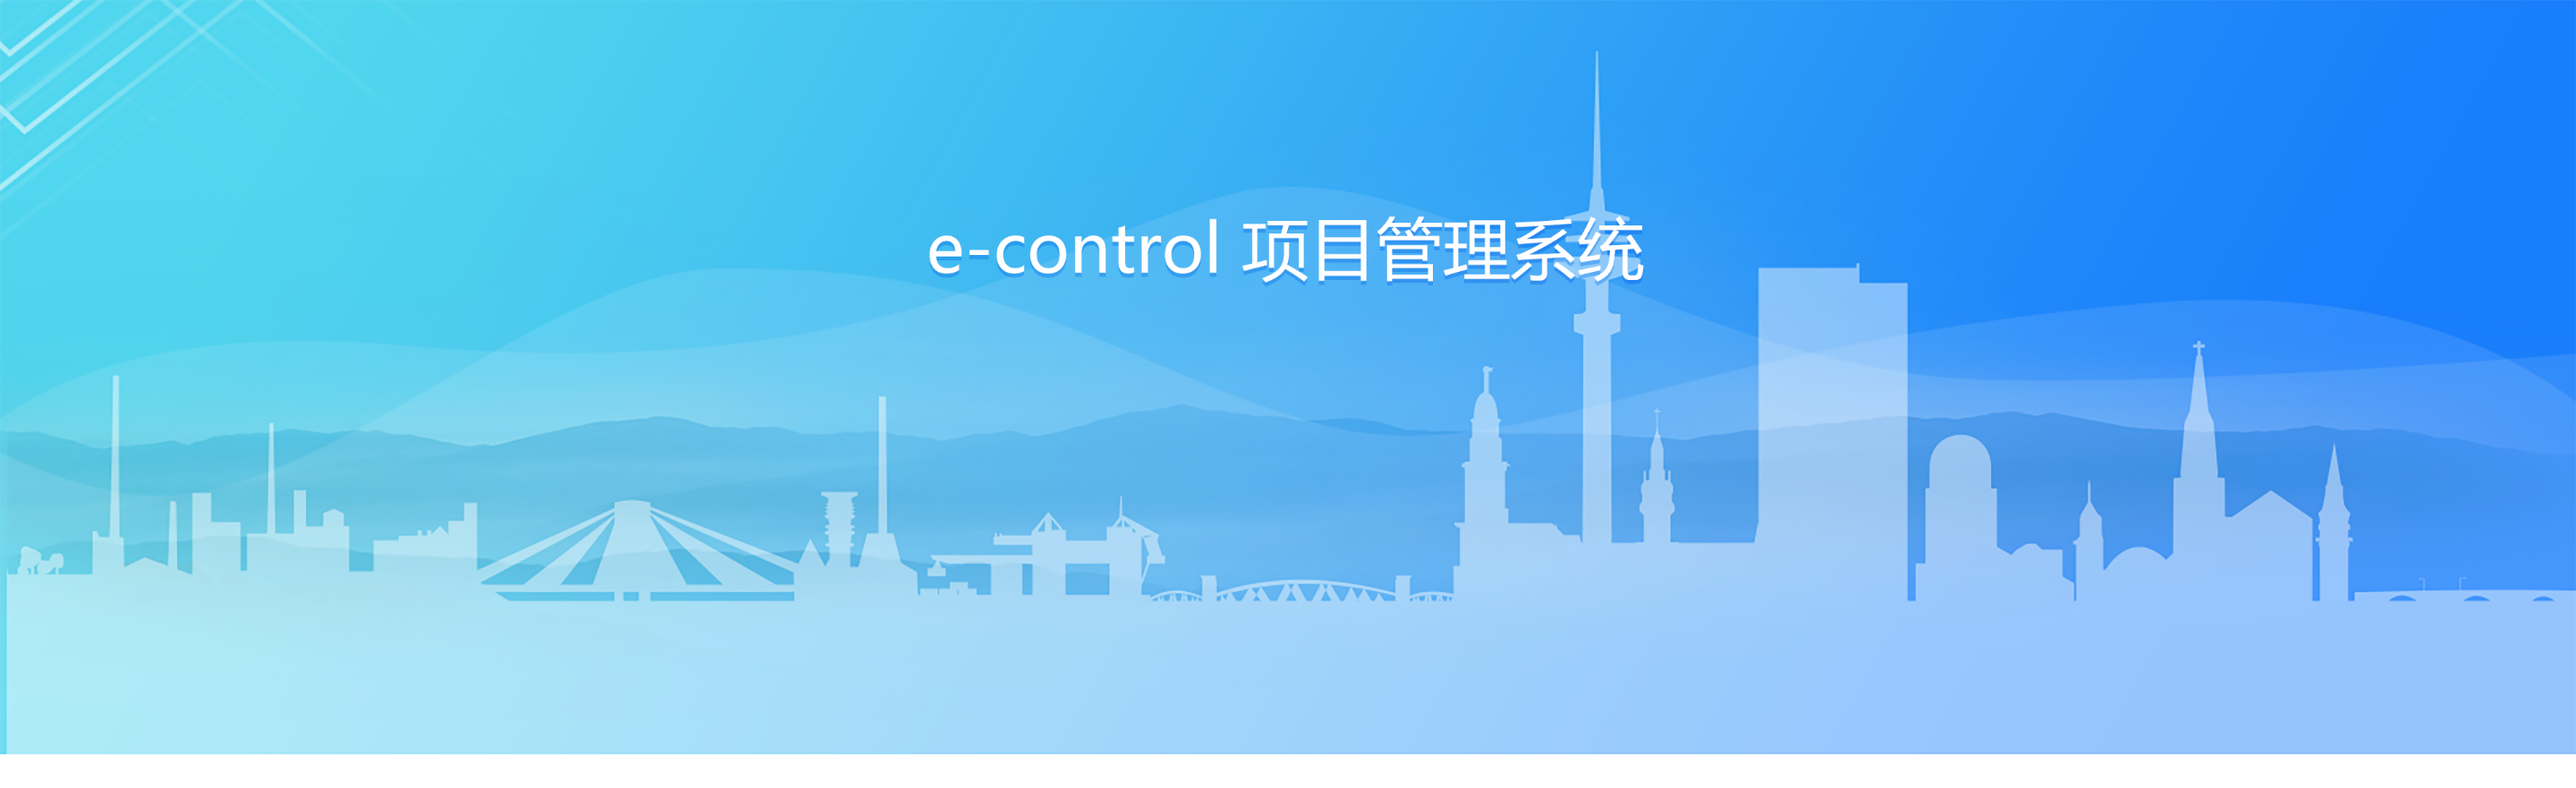
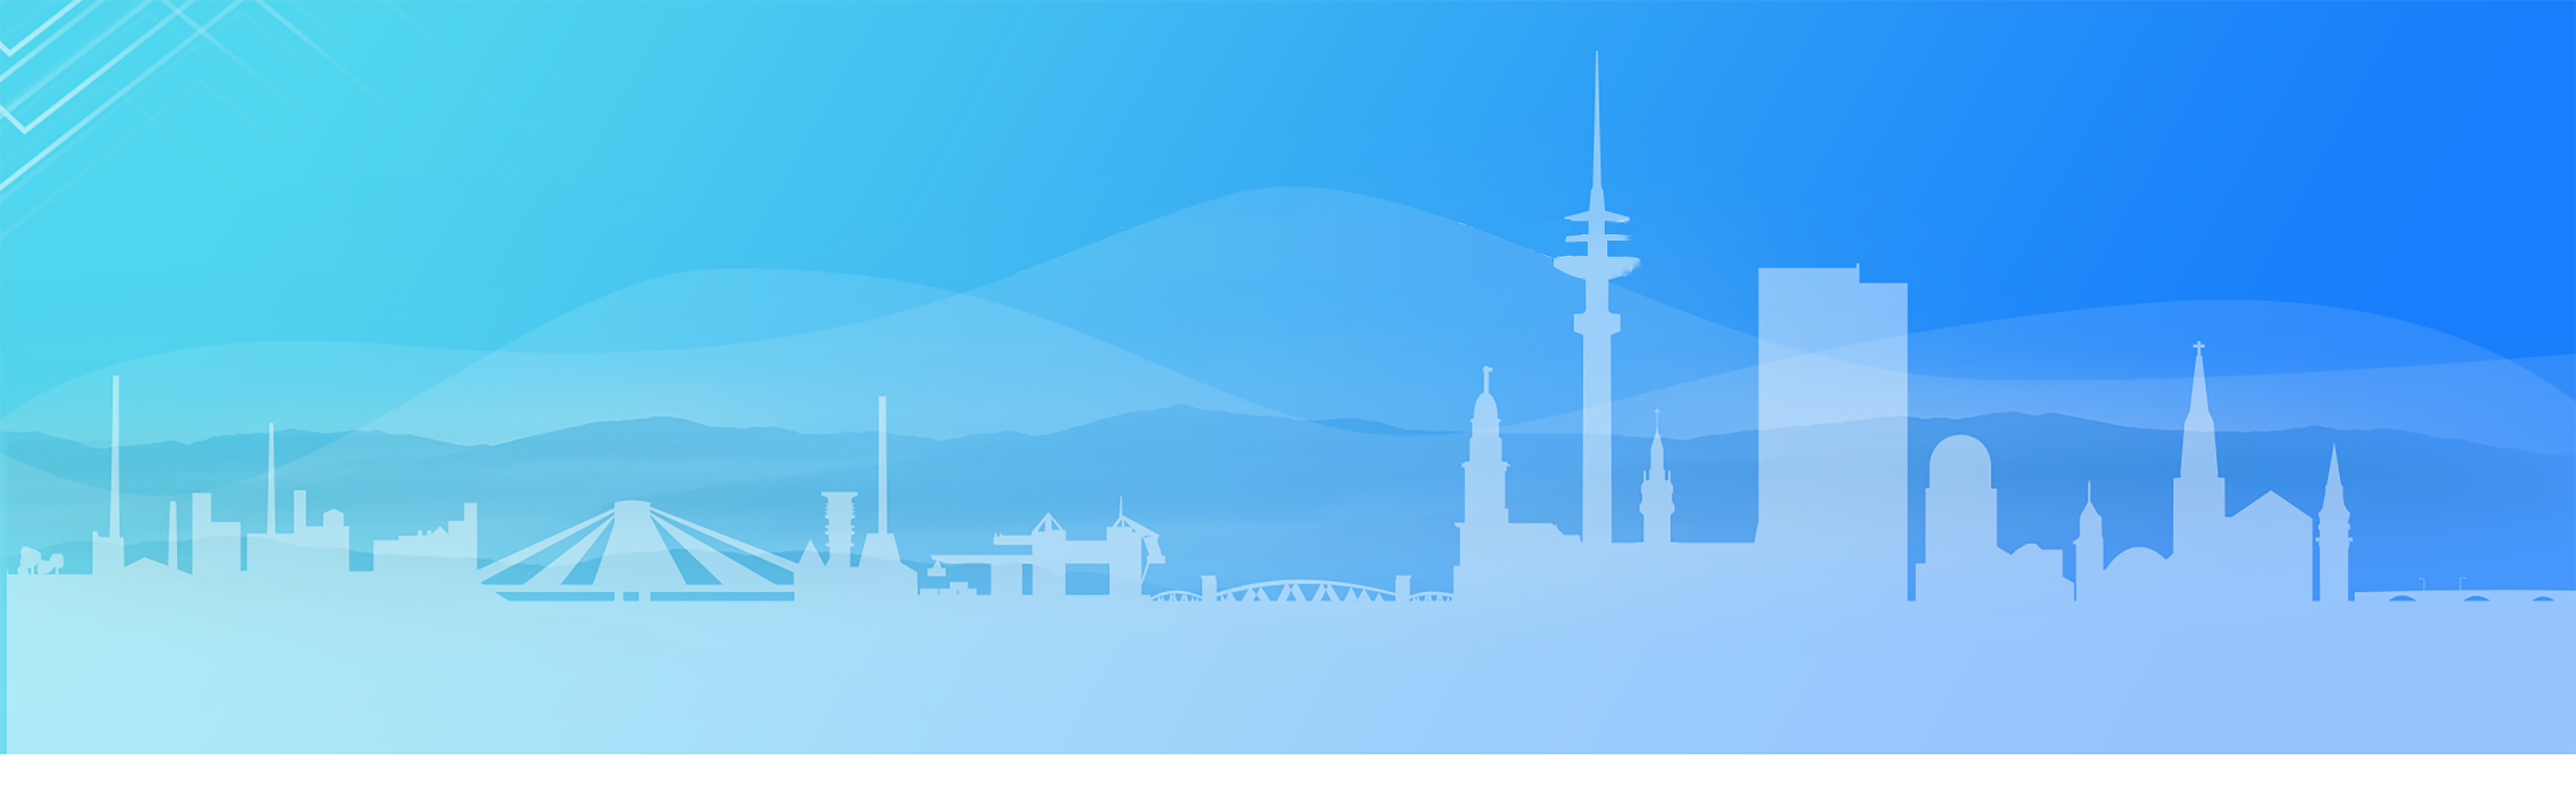
==

Changed region(s): [[0.3438, 0.2758, 0.6562, 0.3678]]

diff --git a/src/pages/Func/CreditInfo.js b/src/pages/Func/CreditInfo.js
@@ -106,11 +106,12 @@ class CreditInfo extends PureComponent {
     } = this.props;
     const description = (
       <DescriptionList >
-        <Description term="产品编号">
+       {/* <Description term="产品编号">
           <Tooltip title={this.state.initDate?this.state.initDate.productCode:''}>
             <p style={{width:'200px',overflow:'hidden',textOverflow:'ellipsis',whiteSpace: 'nowrap',padding:0,margin:0}}>{this.state.initDate?this.state.initDate.productCode:''}</p>
           </Tooltip>
-        </Description>
+        </Description>*/}
+        <Description term="产品编号"><b>{this.state.initDate?this.state.initDate.productCode:''}</b></Description>
         <Description term="授信申请单号"><b>{this.state.initDate?this.state.initDate.creditApplyNo:''}</b></Description>
         <Description term="阿里客户"><b>{this.state.initDate?this.state.initDate.customerId:''}</b></Description>
 
@@ -139,8 +140,17 @@ class CreditInfo extends PureComponent {
         <Description term="平台注册时间"><b>{this.state.initDate?this.state.initDate.platformRegisteredTime:''}</b></Description>
 
         <Description term="年交易金额">{this.state.initDate?this.state.initDate.platformTransactionAmount1Year:''}</Description>
-        <Description term="建议额度(单位：元)"><b>{this.state.initDate?this.state.initDate.adviceQuota:''}</b></Description>
-        <Description term="建议单笔最高额度(单位：元)"><b>{this.state.initDate?this.state.initDate.loanLimitQuota:''}</b></Description>
+        <Description term="建议额度(单位:元)"><b>{this.state.initDate?this.state.initDate.adviceQuota:''}</b></Description>
+        <Description term="建议单笔最高额度(单位:元)"><b>{this.state.initDate?this.state.initDate.loanLimitQuota:''}</b></Description>
+
+        <Description term="平台累计回款金额(单位:元)"><b>{this.state.initDate?this.state.initDate.platformTotalPaymentCollectionAmount:''}</b></Description>
+        <Description term="平台年订单金额(单位:元)"><b>{this.state.initDate?this.state.initDate.platformOrderAmount1Year:''}</b></Description>
+        <Description term="平台年结算单金额(单位:元)"><b>{this.state.initDate?this.state.initDate.platformSettlementAmount1Year:''}</b></Description>
+
+        <Description term="平台年结算单笔数"><b>{this.state.initDate?this.state.initDate.platformSettlementNumber1Year:''}</b></Description>
+        <Description term="建议额度(单位:元)"><b>{this.state.initDate?this.state.initDate.platformTotalSettlementAmountWithCoreCompany:''}</b></Description>
+        <Description term="与核心企业的平台累计结算单金额(单位:元)"><b>{this.state.initDate?this.state.initDate.adviceQuota:''}</b></Description>
+
 
       </DescriptionList>
     );
@@ -148,6 +158,8 @@ class CreditInfo extends PureComponent {
       <Fragment>
         {/*<Button type="primary" onClick={()=>this.lookAdvice()}>查看审批意见</Button>
         <Button type="primary" onClick={()=>this.onStatus()}>查看当前状态</Button>*/}
+        <Button type="primary" onClick={this.reject}>审核</Button>
+        <Button type="primary" onClick={this.backClick}>返回</Button>
         <Button type="primary" onClick={this.filemodal}>查看附件</Button>
         {/* <Button type="primary" onClick={this.filemContact}>查看合同详情</Button>*/}
       </Fragment>
@@ -222,7 +234,6 @@ class CreditInfo extends PureComponent {
          type:'Cre/reject',
          payload:obj,
          callback:(res)=>{
-           console.log('---返回',res)
            alert(res.resData)
            clear()
            this.setState({
@@ -257,17 +268,17 @@ class CreditInfo extends PureComponent {
         /*extraContent={}*/
         onTabChange={this.onOperationTabChange}
       >
-        <Card title=''>
-        {/* <span>
+        {/*  <Card title=''>
+        <span>
                 <Button type="primary" loading={ loading } onClick={()=>this.agree()}>同意</Button>
-              </span>*/}
-          <span style={{marginLeft:14}}>
-                <Button  style={{backgroundColor:'red',color:'#fff'}} loading={ loading } onClick={()=>this.reject()}>确定</Button>
               </span>
           <span style={{marginLeft:14}}>
-                <Button  onClick={this.backClick}>取消</Button>
+                <Button  style={{backgroundColor:'red',color:'#fff'}} loading={ loading } onClick={()=>this.reject()}>审核</Button>
               </span>
-        </Card>
+          <span style={{marginLeft:14}}>
+                <Button  onClick={this.backClick}>返回</Button>
+              </span>
+        </Card>*/}
         <Modal
           title="点击下载"
           visible={this.state.fileShow}

diff --git a/src/pages/FuncLoan/LoanInfo.js b/src/pages/FuncLoan/LoanInfo.js
@@ -141,6 +141,8 @@ class CreditInfo extends PureComponent {
       <Fragment>
         {/*<Button type="primary" onClick={()=>this.lookAdvice()}>查看审批意见</Button>
         <Button type="primary" onClick={()=>this.onStatus()}>查看当前状态</Button>*/}
+        <Button type="primary" onClick={this.reject}>审核</Button>
+        <Button type="primary" onClick={this.backClick}>返回</Button>
         <Button type="primary" onClick={this.filemodal}>查看附件</Button>
         {/* <Button type="primary" onClick={this.filemContact}>查看合同详情</Button>*/}
       </Fragment>
@@ -252,17 +254,7 @@ class CreditInfo extends PureComponent {
         /*extraContent={}*/
         onTabChange={this.onOperationTabChange}
       >
-        <Card title=''>
-        {/* <span>
-                <Button type="primary" loading={ loading } onClick={()=>this.agree()}>同意</Button>
-              </span>*/}
-          <span style={{marginLeft:14}}>
-                <Button  style={{backgroundColor:'red',color:'#fff'}} loading={ loading } onClick={()=>this.reject()}>确定</Button>
-              </span>
-          <span style={{marginLeft:14}}>
-                <Button  onClick={this.backClick}>取消</Button>
-              </span>
-        </Card>
+
         <Modal
           title="点击下载"
           visible={this.state.fileShow}

diff --git a/src/pages/Func/Credit.js b/src/pages/Func/Credit.js
@@ -53,7 +53,6 @@ class Credit extends PureComponent {
       }
     })
   }
-
   //查询
   findList = (e) => {
     const { dispatch, form } = this.props;
@@ -67,7 +66,7 @@ class Credit extends PureComponent {
 
         if (productCode) {
           codeObj = {
-            code: 'productCode',
+            code: 'product_code',
             exp: 'like',
             value: productCode
           };
@@ -75,7 +74,7 @@ class Credit extends PureComponent {
         }
         if (creditApplyNo) {
           nameObj = {
-            code: 'creditApplyNo',
+            code: 'credit_apply_no',
             exp: 'like',
             value: creditApplyNo
           };
@@ -176,6 +175,24 @@ class Credit extends PureComponent {
     router.push('/credit/creditInfo',{record})
   }
 
+//取消
+  handleFormReset = ()=>{
+    const { dispatch,form} = this.props;
+    //清空输入框
+    form.resetFields();
+    this.setState({
+      conditions:[],
+    })
+    //清空后获取列表
+    dispatch({
+      type:'Cre/fetch',
+      payload:{
+        pageIndex:0,
+        pageSize:10
+      }
+    })
+  }
+
 
   render() {
     const {
@@ -243,6 +260,7 @@ class Credit extends PureComponent {
         dataIndex: 'legalPersonMateName',
         key: 'legalPersonMateName',
       },
+
       {
         title: '操作',
         fixed:'right',

diff --git a/src/pages/FuncLoan/Loan.js b/src/pages/FuncLoan/Loan.js
@@ -71,7 +71,7 @@ class Loan extends PureComponent {
 
         if (loanApplyNo) {
           codeObj = {
-            code: 'loanApplyNo',
+            code: 'loan_apply_no',
             exp: 'like',
             value: loanApplyNo
           };
@@ -79,7 +79,7 @@ class Loan extends PureComponent {
         }
         if (loanNo) {
           nameObj = {
-            code: 'loanNo',
+            code: 'loan_no',
             exp: 'like',
             value: loanNo
           };
@@ -106,6 +106,24 @@ class Loan extends PureComponent {
             pageSize:10
           }
         })
+      }
+    })
+  }
+
+  //取消
+  handleFormReset = ()=>{
+    const { dispatch,form} = this.props;
+    //清空输入框
+    form.resetFields();
+    this.setState({
+      conditions:[],
+    })
+    //清空后获取列表
+    dispatch({
+      type:'loan/fetch',
+      payload:{
+        pageIndex:0,
+        pageSize:10
       }
     })
   }
@@ -267,15 +285,6 @@ class Loan extends PureComponent {
           </Fragment>
       },
     ];
-    const dataSource = [
-      {
-        id:1,
-        key:1,
-        loanApplyNo:'090809',
-        loanNo:'98797hiuh',
-        customerId:'王总',
-      }
-    ]
     return (
       <PageHeaderWrapper>
         <Card>

diff --git a/config/config.js b/config/config.js
@@ -48,6 +48,7 @@ if (process.env.APP_TYPE === 'site') {
     {
       code: 'UA-72788897-6',
     },
+
   ]);
 }
 console.log("环境",process.env.API_ENV);
@@ -58,8 +59,8 @@ switch (process.env.API_ENV) {
     env = 'https://www.leapingtech.net/nienboot-0.0.1-SNAPSHOT';
     break;
   case 'dev': //开发环境
-    env = 'http://127.0.0.1:8080';
-    //env = 'http://192.168.2.166:8080';
+    //env = 'http://127.0.0.1:8080';
+    env = 'http://192.168.2.166:8080';
     break;
   case 'produce': //生产环境
     env = 'https://www.leapingtech.com/nienboot-0.0.1-SNAPSHOT';

diff --git a/src/layouts/BasicLayout.js b/src/layouts/BasicLayout.js
@@ -153,7 +153,7 @@ class BasicLayout extends React.PureComponent {
     const currRouterData = this.matchParamsPath(pathname, breadcrumbNameMap);
 
     if (!currRouterData) {
-      return '项目管理系统';
+      return '';
     }
     const pageName = formatMessage({
       id: currRouterData.locale || currRouterData.name,
@@ -161,7 +161,7 @@ class BasicLayout extends React.PureComponent {
     });
 
 
-    return `${pageName} - 项目管理系统`;
+    return `${pageName}`;
   };
 
   getLayoutStyle = () => {

diff --git a/src/pages/User/Login.js b/src/pages/User/Login.js
@@ -87,7 +87,7 @@ class Login extends PureComponent {
 
   render() {
     return (
-      <DocumentTitle title="项目管理系统">
+      <DocumentTitle title="">
         <div className={styles.login} style={{ background: `url(${backgroundImg}) 0/100% 58% no-repeat`,backgroundPosition:'left top',backgroundColor:'#eeeeee' }}>
             <WrappedLoginCard className={styles.loginCardPosition} onSubmit={this.handleSubmit} />
             <SideBanner className={styles.sideBannerPosition}/>

diff --git a/src/components/SiderMenu/SiderMenu.js b/src/components/SiderMenu/SiderMenu.js
@@ -66,7 +66,7 @@ export default class SiderMenu extends PureComponent {
       >
         <div className={styles.logo} id="logo">
           <Link to="/">
-            <img src={logo} alt="logo" /><span>项目管理系统</span>
+            <img src={logo} alt="logo" /><span></span>
           </Link>
         </div>
         <Suspense fallback={<PageLoading />}>

diff --git a/src/services/Cre.js b/src/services/Cre.js
@@ -12,6 +12,7 @@ export async function fetchCA(params) {
 
 export async function fetchBL(params) {
   const str = JSON.stringify(params);
+  console.log('---列表',str)
   return request(`${baseUrl}/getCredit`,{
     method:'POST',
     body: str,

diff --git a/src/pages/Func/CreditReject.js b/src/pages/Func/CreditReject.js
@@ -98,7 +98,7 @@ class CreditReject extends PureComponent {
 
     return (
       <Modal
-        title={"授信"}
+        title={"审核"}
         visible={visible}
         width='80%'
         destroyOnClose
